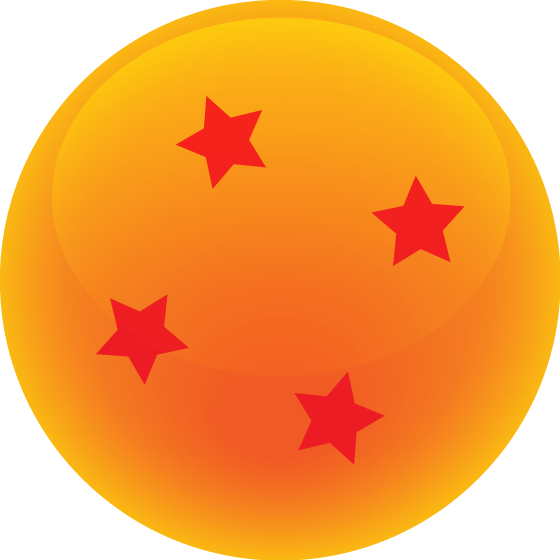
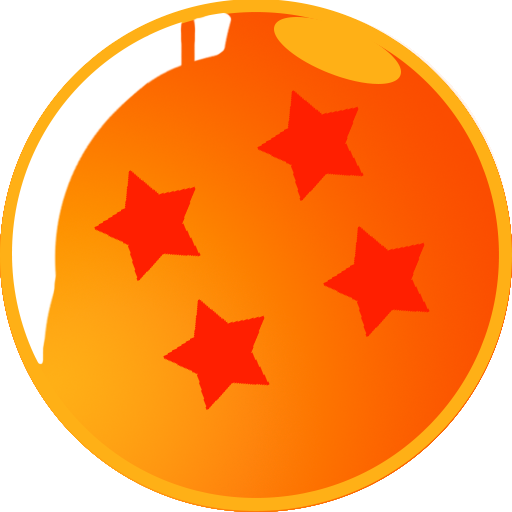
Images changed, added youtube image(btn), ytb css

diff --git a/src/app/app.component.ts b/src/app/app.component.ts
@@ -31,13 +31,15 @@ export class AppComponent {
     return Math.floor(Math.random() * (max - min + 1)) + min;
   }
   randomImage() {
-    this.randomImageNumber = this.randomInteger(0, 2);
+    this.randomImageNumber = this.randomInteger(0, 3);
     if (this.randomImageNumber == 0) {
       this.randomImageSrc = "../assets/png/4stars.png";
     } else if (this.randomImageNumber == 1) {
       this.randomImageSrc = "../assets/png/pokeball.png";
     } else if (this.randomImageNumber == 2) {
-      this.randomImageSrc = "../assets/png/donutmordido.png";
+      this.randomImageSrc = "../assets/png/donut.png";
+    } else if (this.randomImageNumber == 3) {
+      this.randomImageSrc = "../assets/png/luffy.png";
     }
   }
   randomLogo() {

diff --git a/src/styles.scss b/src/styles.scss
@@ -116,9 +116,20 @@ div.content {
     position: fixed;
     bottom: 10px;
     right: 10px;
-    -webkit-animation: spin 10s linear infinite;
-    -moz-animation: spin 10s linear infinite;
-    animation: spin 10s linear infinite;
+    -webkit-animation: spin 15s linear infinite;
+    -moz-animation: spin 15s linear infinite;
+    animation: spin 15s linear infinite;
+}
+
+.youtube {
+    display: block;
+    position: fixed;
+    bottom: 10px;
+    left: 10px;
+    -webkit-animation: spin 30s linear infinite reverse;
+    -moz-animation: spin 30s linear infinite reverse;
+    animation: spin 30s linear infinite reverse;
+    cursor: pointer;
 }
 
 @-webkit-keyframes spin {

diff --git a/src/app/app.component.html b/src/app/app.component.html
@@ -18,5 +18,9 @@
 </div>
 
 <div class="spin">
-  <img height="50px" src="{{randomImageSrc}}">
+  <img (click)="randomLogo(); randomImage()" height="80px" src="{{randomImageSrc}}">
+</div>
+
+<div class="youtube">
+  <img height="60px" src="../assets/png/youtube.png">
 </div>
